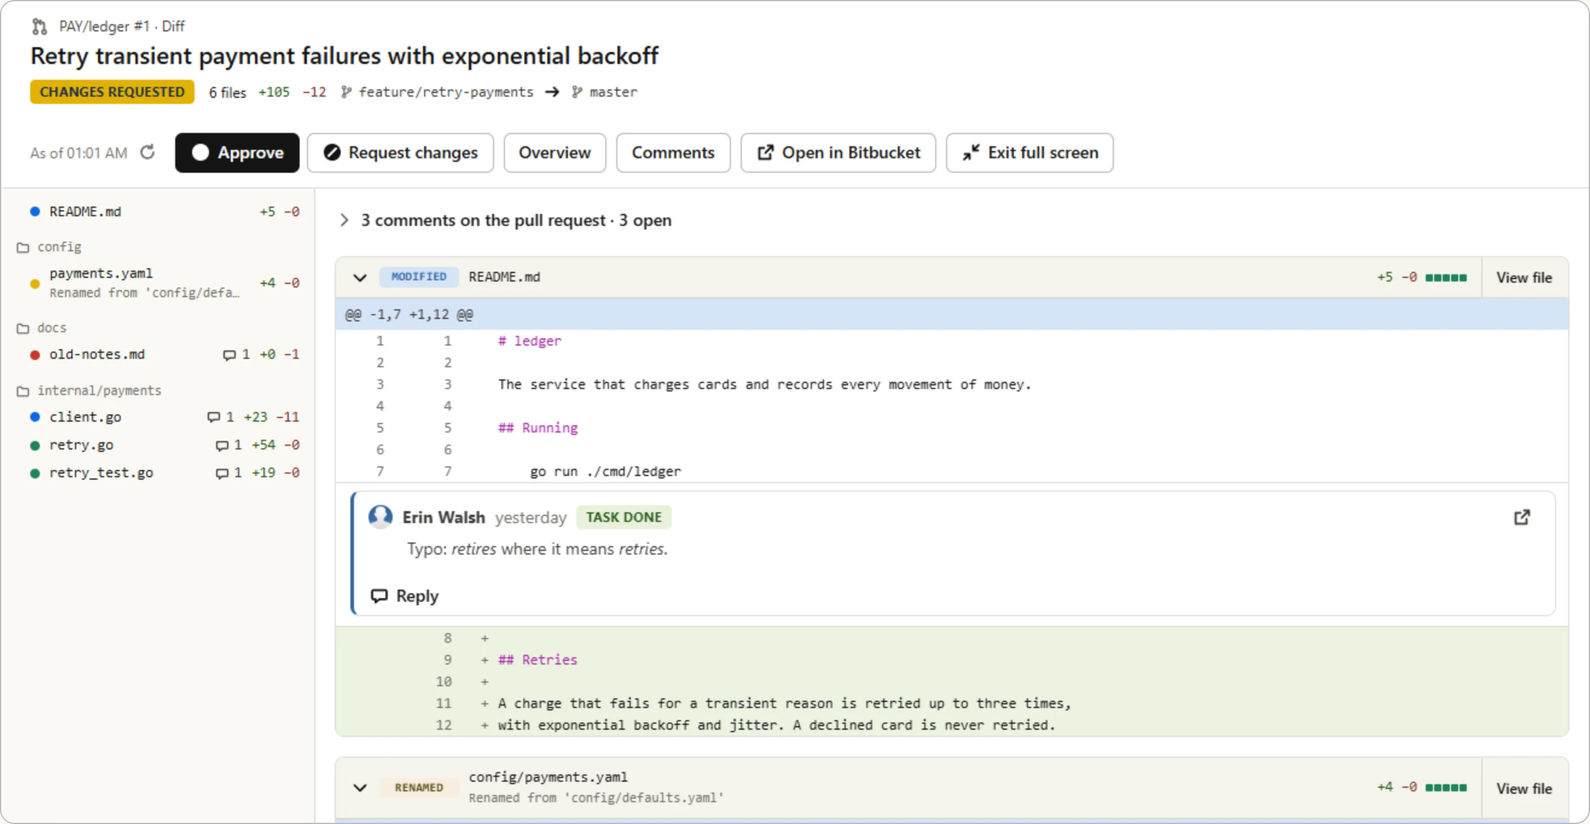
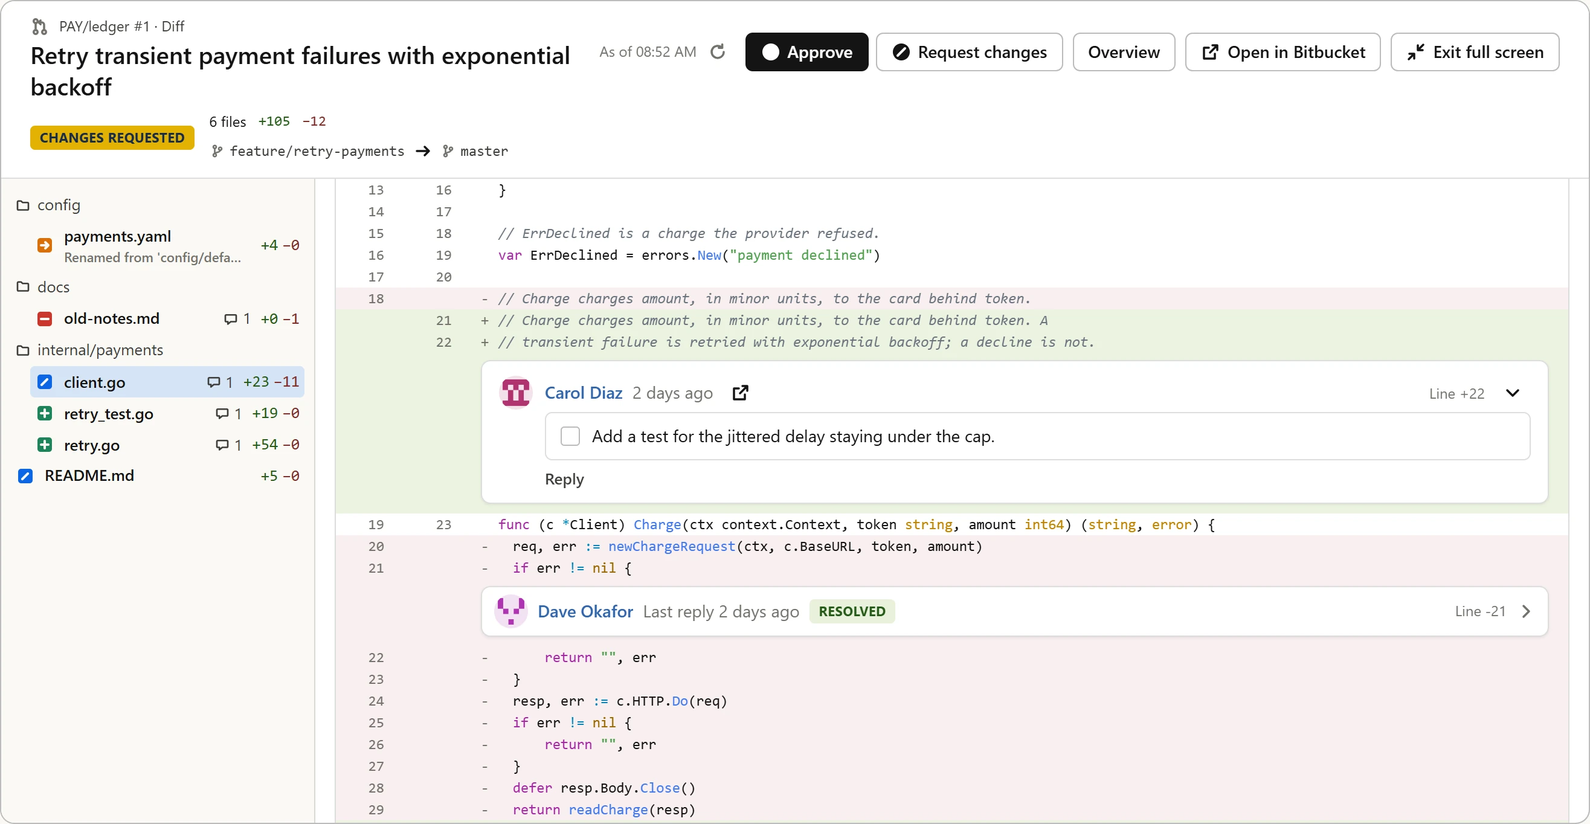
docs(mcp): show comments in the overview and the diff, as Bitbucket does
The guide, the release note and ADR-101 say where a pull request's
comments are now: in its overview's activity and on their lines in its
diff, each where Bitbucket's diff draws it, with the diff a file at a
time beside its tree. The Comments view and the file viewer are gone
from them, and their screenshots with them; the card, list, overview and
diff are shown as they are now. ADR-101 records why there is no view of
comments of their own, why a comment is not placed by its anchor, and
why there is no file viewer.

diff --git a/docs/site/ai-and-llms.md b/docs/site/ai-and-llms.md
@@ -64,47 +64,43 @@ nothing to turn on: the model calls the `show` tool once it has found what you
 asked about. A terminal client, such as Claude Code, shows the plain answer, and
 `--exclude show` turns views off.
 
-![A pull request card: its title, author and branches, who requested changes, a failed and a running build, an open task, and how many approvals and builds passed](assets/views/card-light.webp#only-light)
-![A pull request card: its title, author and branches, who requested changes, a failed and a running build, an open task, and how many approvals and builds passed](assets/views/card-dark.webp#only-dark)
+![A pull request card: its title, author and branches, who requested changes, a failed and a running build, a required build missing, two open tasks, and how many approvals and builds passed](assets/views/card-light.webp#only-light)
+![A pull request card: its title, author and branches, who requested changes, a failed and a running build, a required build missing, two open tasks, and how many approvals and builds passed](assets/views/card-dark.webp#only-dark)
 
 The card puts what asks something of someone on one line: who requested
 changes, a conflict, failed and running builds, required builds that have not
-run, open tasks. The counts under it
-are Bitbucket's, however many reviewers and builds there are. **Overview** opens
-the rest, fullscreen where the client has it and opened out in place where it
-does not: the description as Bitbucket formats it, the reviewers by their
-decision, the builds the target branch requires before it merges, every build
-by its state, and the comments and tasks. **Diff** and
-**Comments** open those in the same view, and **Back** returns to the card.
+run, open tasks. The counts under it are Bitbucket's, however many reviewers and
+builds there are. **Overview** opens the rest, fullscreen where the client has
+it and opened out in place where it does not: the description as Bitbucket
+formats it, and under it the activity as Bitbucket's overview lists it, newest
+first: who approved or requested changes, pushed or merged, and every comment,
+one on a line with the lines of the diff it is on. Beside them are the
+reviewers by their decision, the builds the target branch requires before it
+merges, and every build by its state. Reply to a comment, or comment on the pull
+request, where it is; the count of open tasks opens the overview at them.
 **Approve** and **Request changes**, in the overview and over the diff, review
 the pull request once you confirm it in your client.
 
-![A pull request's overview: its description beside Approve and Request changes, the reviewers grouped by decision, and its builds grouped by state](assets/views/overview-light.webp#only-light)
-![A pull request's overview: its description beside Approve and Request changes, the reviewers grouped by decision, and its builds grouped by state](assets/views/overview-dark.webp#only-dark)
+![A pull request's overview: its description and activity, a comment on a line shown among the lines of the diff it is on, beside Approve and Request changes, the reviewers by decision and the builds by state](assets/views/overview-light.webp#only-light)
+![A pull request's overview: its description and activity, a comment on a line shown among the lines of the diff it is on, beside Approve and Request changes, the reviewers by decision and the builds by state](assets/views/overview-dark.webp#only-dark)
 
 A list flags only what needs attention in each pull request: a request for
 changes, a draft, failed builds. A row opens its card in the same view.
 Fullscreen adds Bitbucket's dashboard columns and filters, and asks for the
 pull requests in another state or role.
 
-![A list of four pull requests, two of them with changes requested and a failed build, one a draft](assets/views/list-light.webp#only-light)
-![A list of four pull requests, two of them with changes requested and a failed build, one a draft](assets/views/list-dark.webp#only-dark)
+![A list of six pull requests: two with changes requested and a failed build, one declined, one merged, one a draft](assets/views/list-light.webp#only-light)
+![A list of six pull requests: two with changes requested and a failed build, one declined, one merged, one a draft](assets/views/list-dark.webp#only-dark)
 
-A diff comes file by file, with Bitbucket's change lozenges and the files in
-their directories, the code highlighted, and each comment on the line it was
-written on. Select lines
-to add them to the chat, to ask about them, or to comment on them. A file too
-large to carry is named, with a link to its diff in Bitbucket.
+**Diff** opens the pull request's diff as Bitbucket's diff page has it: the
+file tree, and beside it one file at a time, the code highlighted and each
+comment on the line Bitbucket draws it on, a resolved one folded to a line.
+Select lines to add them to the chat, to ask about them, or to comment on them.
+A file too large to carry is named, with a link to its diff in Bitbucket.
+**Back** returns to where you were.
 
-![A pull request's diff: the changed files by directory, each with its open comments counted, beside the highlighted changes, a comment on the line it was written on, and Approve and Request changes over it](assets/views/diff-light.webp#only-light)
-![A pull request's diff: the changed files by directory, each with its open comments counted, beside the highlighted changes, a comment on the line it was written on, and Approve and Request changes over it](assets/views/diff-dark.webp#only-dark)
-
-The comment threads come where they are: those on the pull request first, then
-each file's, the open ones out and the resolved folded to their count. A thread
-on a changed line comes with the lines of the diff that lead to it, and a long
-discussion folds its earlier replies. The card lists what is still open in
-the same order, under a heading for each place. Reply to a thread, or comment
-on the pull request, from the view itself.
+![A pull request's diff: the file tree with each file's open comments counted, beside one file's highlighted changes, a task on the line it was written on and a resolved thread folded to a line](assets/views/diff-light.webp#only-light)
+![A pull request's diff: the file tree with each file's open comments counted, beside one file's highlighted changes, a task on the line it was written on and a resolved thread folded to a line](assets/views/diff-dark.webp#only-dark)
 
 Ask for a pull request to be opened, and the agent can hand you its draft as a
 form: the branches, the title and description it wrote, the reviewers it
@@ -114,17 +110,6 @@ request's title, description and draft state are edited the same way.
 
 ![A pull request form: the source and target branches, the title and the description the agent drafted, a reviewer field, the draft box, and Create pull request](assets/views/form-light.webp#only-light)
 ![A pull request form: the source and target branches, the title and the description the agent drafted, a reviewer field, the draft box, and Create pull request](assets/views/form-dark.webp#only-dark)
-
-A file you have no copy of, such as another repository's, is shown as what it
-is: highlighted code with line numbers, a picture fitted to the view or at its size, audio
-and video that play, an archive's listing. A long file comes a window at a
-time. In a diff, **View file** opens a changed file as the pull request has it.
-
-![A Go file shown as highlighted code with line numbers](assets/views/file-light.webp#only-light)
-![A Go file shown as highlighted code with line numbers](assets/views/file-dark.webp#only-dark)
-
-![A pull request's comment threads: tasks and comments on the pull request and on a file, each with Reply, under Add a comment](assets/views/threads-light.webp#only-light)
-![A pull request's comment threads: tasks and comments on the pull request and on a file, each with Reply, under Add a comment](assets/views/threads-dark.webp#only-dark)
 
 - A view carries what it draws. It renders again when you come back to the
   conversation, even without bb running, and it says when it was read.

diff --git a/docs/site/adr/101-mcp-server-adopts-mcp-apps.md b/docs/site/adr/101-mcp-server-adopts-mcp-apps.md
@@ -18,10 +18,10 @@ This page is generated from `docs/decisions/*.yaml` by `task docs:export-adr-mar
 ## Decision
 
 bb ai mcp serve adopts MCP Apps. In a client that renders them, the model can put what it found in front of the person as an interactive view instead of describing it; a client that renders none gets text as before.
-Views are kinds of one tool, show, which the model calls once it has what the person asked about. The data tools carry no view. A kind is offered while the tool whose answer it shows is exposed, and a client that renders no views is told nothing was shown, and nothing is fetched for it. A diff or a file is for what the person cannot open in their own editor.
+Views are kinds of one tool, show, which the model calls once it has what the person asked about. The data tools carry no view. A kind is offered while the tool whose answer it shows is exposed, and a client that renders no views is told nothing was shown, and nothing is fetched for it. A diff is for what the person cannot open in their own editor.
 One page, ui://bb/view, draws every view: plain JavaScript and CSS embedded in the binary. It holds no Bitbucket data, stays out of resources/list, may be cached by anyone, and declares no network domains. What a view draws travels in the result's _meta beside a short text for the model, avatars included, which bb fetches with its own credentials. Text from Bitbucket is never parsed as HTML: the page builds elements with the DOM API, draws Markdown with a parser of its own, and opens a link only through the host, only to a web address. Code is highlighted in bb, which sends each line's token classes, and the page colours them; highlighting stops at a deadline, and a lexer that cannot be stopped midway, such as those for the code inside templates, is used only when the operator asks, and no answer waits for it. It uses Bitbucket's own words and icon metaphors, and the host's theme.
-A count in a view is Bitbucket's count of the whole, and a view that lists fewer says so. What needs the person is never behind a click. A card lists the builds its target branch requires as Bitbucket's merge check decides them, from the builds listing Bitbucket's own pull request page reads, since the public build endpoints do not say which required key a build reports under; where bb cannot tell as the check would, the card says nothing about requirements. Inline, a view keeps one shape and grows a step at a time when the person asks; fullscreen shows everything the result carries. A view says when its data was read.
-A view keeps itself current while it is on screen. It draws what its result carries, then calls refresh_view, a read-only tool offered to views and not to the model, with the show call it answers and a fingerprint of what it draws; the answer carries the data only when it has changed. It asks often while something is in motion, such as a running build, less often the longer nothing changes, never off screen or after teardown, and not again once a pull request is closed and still. Status changes in place; a changed diff is offered rather than swapped under the person's reading. A view that changed tells the model, through ui/update-model-context. A form, which holds what the person writes, and a file, read a window at a time, are not read again by themselves.
+A count in a view is Bitbucket's count of the whole, and a view that lists fewer says so. What needs the person is never behind a click. A card lists the builds its target branch requires as Bitbucket's merge check decides them, from the builds listing Bitbucket's own pull request page reads, since the public build endpoints do not say which required key a build reports under; where bb cannot tell as the check would, the card says nothing about requirements. A pull request's comments are where Bitbucket has them: in its overview's activity, newest first, and on their lines in its diff, each where Bitbucket's diff with comments draws it; fullscreen, the diff is Bitbucket's diff page, one file at a time. Inline, a view keeps one shape and grows a step at a time when the person asks; fullscreen shows everything the result carries. A view says when its data was read.
+A view keeps itself current while it is on screen. It draws what its result carries, then calls refresh_view, a read-only tool offered to views and not to the model, with the show call it answers and a fingerprint of what it draws; the answer carries the data only when it has changed. It asks often while something is in motion, such as a running build, less often the longer nothing changes, never off screen or after teardown, and not again once a pull request is closed and still. Status changes in place; a changed diff is offered rather than swapped under the person's reading. A view that changed tells the model, through ui/update-model-context. A form, which holds what the person writes, is not read again by itself.
 A view opens what else the person asks for in place, through refresh_view: a pull request's other views, a list's pull requests, a list in another state; it goes back, and tells the model what the person opened. What the person does in a view goes through the model's own tool, so the scope, the audit trail and the confirmation of a tool that asks apply as to the model's call. A view offers only the kinds and tools the server exposes. The pull request form is a kind like the others: the model drafts, the person submits, and nothing is created before.
 Tools only views call, refresh_view and the form's suggest_form_values, are read-only, offered to views and not to the model, and go with show whatever --tools names; --exclude withholds them.
 
@@ -41,3 +41,6 @@ A person takes in a pull request faster laid out as Bitbucket lays it out than f
 - `Fetch what a view draws from the view once it renders, or more of it as the person scrolls`: A re-rendered conversation would show nothing without bb running, and a view would wait on a tool call before it drew.
 - `Refresh a view by calling show again`: Every refresh would carry the whole payload, changed or not, and show is the model's tool.
 - `Draw everything a result carries, inline`: A list or a diff of a thousand rows buries the conversation, and a host scrolls a view it caps inside the chat.
+- `A view of a pull request's comments of its own`: Bitbucket has none, and a person reads a comment where it was written: gathered in one view apart from the diff and the activity, every thread at once read as a mess.
+- `Place a diff's comments by their anchors`: A comment written on the left of a side-by-side diff names its line as the file was, so on an unchanged line it lands on another line when read as the file is.
+- `A file viewer`: In a coding harness the model quotes the code that matters, highlighted, and the person has an editor; another repository's file is a click away in Bitbucket. Pictures and media were left, too rarely asked for to earn a kind of view.

diff --git a/docs/release-notes/v5.0.0.md b/docs/release-notes/v5.0.0.md
@@ -93,11 +93,11 @@ If you consume `bb` inside CI/CD pipelines, shell scripts, or AI agent toolchain
 
    Or through Group Policy, as the registry value set to `1` under `HKLM\Software\Policies\bb`.
 
-8. **See a pull request, a list, a diff or its comment threads as a view in your MCP client ([ADR-101](https://vriesdemichael.github.io/bitbucket-data-center-cli/latest/adr/101-mcp-server-adopts-mcp-apps/), [#686](https://github.com/vriesdemichael/bitbucket-data-center-cli/issues/686)):**
+8. **See a pull request, a list or a diff as a view in your MCP client ([ADR-101](https://vriesdemichael.github.io/bitbucket-data-center-cli/latest/adr/101-mcp-server-adopts-mcp-apps/), [#686](https://github.com/vriesdemichael/bitbucket-data-center-cli/issues/686)):**
 
-   In clients that render MCP Apps, such as Claude Desktop, VS Code and Goose, the AI can now put what it found in front of you instead of describing it: a pull request with its reviewers' avatars and decisions, its builds and the ones its target branch requires, open tasks, comments and formatted description; a list of pull requests; the diff, file by file and highlighted; or its comment threads, where they are, each with the lines of the diff it is on. It looks and reads like Bitbucket, and anything you click opens there.
+   In clients that render MCP Apps, such as Claude Desktop, VS Code and Goose, the AI can now put what it found in front of you instead of describing it: a pull request with its reviewers' avatars and decisions, its builds and the ones its target branch requires, open tasks, its formatted description and its activity, comments included; a list of pull requests; or its diff, a file at a time, highlighted, with each comment on its line. It looks and reads like Bitbucket, and anything you click opens there.
 
-   Ask for PAYMENTS/ledger#42 and the answer comes with its card; open the card for the full overview, its diff or its comments. In the diff, select lines to add them to the chat, to ask about them or to comment on them; reply to a thread, and approve or request changes, without leaving the conversation. Ask the AI to open a pull request and it can hand you its draft as a form to finish and submit. A file from a repository you have no copy of shows as code, a picture, a player or a listing. A view carries what it shows, so it still renders when you come back to the conversation, even without bb running, and it says when it was read. While it is on screen it keeps itself current: watch a build finish or a comment arrive without asking again, and the AI is told what changed. Terminal agents such as Claude Code show the usual text.
+   Ask for PAYMENTS/ledger#42 and the answer comes with its card; open the card for the full overview and its activity, or its diff. In the diff, select lines to add them to the chat, to ask about them or to comment on them; reply to a comment, and approve or request changes, without leaving the conversation. Ask the AI to open a pull request and it can hand you its draft as a form to finish and submit. A view carries what it shows, so it still renders when you come back to the conversation, even without bb running, and it says when it was read. While it is on screen it keeps itself current: watch a build finish or a comment arrive without asking again, and the AI is told what changed. Terminal agents such as Claude Code show the usual text.
 
    * For administrators: a view has no network access; bb fetches the avatars with its own credentials and puts them in the result. `--exclude show` turns views off. A view keeps current by calling `refresh_view`, and the form suggests values through `suggest_form_values`: read-only tools only views are offered, each call recorded in the audit log like any other; `--exclude refresh_view` keeps views as they were drawn. What you do in a view goes through the AI's own tools, with their confirmations. Of Svelte, ERB, PHTML, Go HTML and Jinja templates only the markup is highlighted; `--highlight-templates` highlights the code in them too, with lexers a crafted file can keep busy for seconds, though no view waits for them.
 

diff --git a/docs/site/reference/mcp-tools.md b/docs/site/reference/mcp-tools.md
@@ -38,7 +38,7 @@ The [MCP server guide](../ai-and-llms.md#the-mcp-server) wires it into a client,
 | `resolve_ref` | read-only | never | Resolve a branch or tag name to its tip commit SHA. Use as a cheap existence check before cloning or creating a pull request. |
 | `search_repositories` | read-only | never | Search for repositories by name, optionally filtered by project. Returns project key, slug, and display name. |
 | `set_build_status` | writes | always | Report a build/CI status for a commit back to Bitbucket. Use this when running CI pipelines that should surface results in PR views. Asks the person to confirm in the client before it runs. |
-| `show` | read-only | never | Show the person a pull request, a list of pull requests, a pull request's diff or its comment threads as an interactive view, in clients that display MCP Apps views, or a pull request form for them to finish and submit. Call it once, after you have what you need and before your answer, for what the person should see; use the other tools to find it. kinds pull_request, diff and threads take project, repo and id; kind pull_requests takes the filters list_pull_requests takes. Kind pull_request_form takes project, repo, from_ref and what you drafted (title, description, to_ref, reviewers, draft), or an id to edit that pull request; nothing is created or changed until the person submits it. Kind file takes project, repo, path and at, and shows code, a picture, audio, a video or an archive's listing. A diff or a file is for what the person cannot open in their own editor, such as another repository's. In a client that displays no views, it shows nothing and says so. |
+| `show` | read-only | never | Show the person a pull request, a list of pull requests or a pull request's diff as an interactive view, in clients that display MCP Apps views, or a pull request form for them to finish and submit. Call it once, after you have what you need and before your answer, for what the person should see; use the other tools to find it. Kinds pull_request and diff take project, repo and id; a pull request's overview has its comments and activity, and its diff the comments on its lines. Kind pull_requests takes the filters list_pull_requests takes. Kind pull_request_form takes project, repo, from_ref and what you drafted (title, description, to_ref, reviewers, draft), or an id to edit that pull request; nothing is created or changed until the person submits it. A diff is for changes the person cannot open in their own editor, such as another repository's. In a client that displays no views, it shows nothing and says so. |
 | `submit_pr_review` | writes | always | Set review status on a pull request: approve, unapprove, or request changes (needs_work). Asks the person to confirm in the client before it runs. |
 | `suggest_form_values` | read-only | never | Called by bb's pull request form, not by the model: suggests the repository's branches, or the people who can read it as reviewers, matching what the person typed. |
 | `update_pull_request` | writes | when-setting-draft | Update a pull request's title, description, or draft state. Use draft=false to mark a draft pull request ready for review. Requires the current version from get_pull_request for optimistic locking; a stale version is rejected rather than overwriting someone else's edit. Setting draft asks the person to confirm in the client first. |

diff --git a/docs/site/index.md b/docs/site/index.md
@@ -45,11 +45,11 @@ hide:
 	<div>
 		<p class="bb-card-kicker">In your agent</p>
 		<h2><a href="ai-and-llms/#views-in-your-agent">See the pull request, not a description of it</a></h2>
-		<p>Ask an agent about a pull request, and in a client that renders MCP Apps, such as Claude Desktop, VS Code or Goose, the MCP server <code>bb</code> ships answers with the pull request itself, right in the chat. Lists of pull requests, diffs and comment threads too.</p>
+		<p>Ask an agent about a pull request, and in a client that renders MCP Apps, such as Claude Desktop, VS Code or Goose, the MCP server <code>bb</code> ships answers with the pull request itself, right in the chat. Lists of pull requests and diffs too.</p>
 	</div>
 	<div>
-		<img src="assets/views/card-light.webp#only-light" alt="A pull request card in the chat: its title, author and branches, who requested changes, a failed and a running build, an open task, and how many approvals and builds passed">
-		<img src="assets/views/card-dark.webp#only-dark" alt="A pull request card in the chat: its title, author and branches, who requested changes, a failed and a running build, an open task, and how many approvals and builds passed">
+		<img src="assets/views/card-light.webp#only-light" alt="A pull request card in the chat: its title, author and branches, who requested changes, a failed and a running build, a required build missing, two open tasks, and how many approvals and builds passed">
+		<img src="assets/views/card-dark.webp#only-dark" alt="A pull request card in the chat: its title, author and branches, who requested changes, a failed and a running build, a required build missing, two open tasks, and how many approvals and builds passed">
 	</div>
 </section>
 

diff --git a/README.md b/README.md
@@ -18,7 +18,7 @@ request itself, right in the chat:
 
 <picture>
   <source media="(prefers-color-scheme: dark)" srcset="docs/site/assets/views/card-dark.webp">
-  <img alt="A pull request card in the chat: its title, author and branches, who requested changes, a failed and a running build, an open task, and how many approvals and builds passed" src="docs/site/assets/views/card-light.webp" width="632">
+  <img alt="A pull request card in the chat: its title, author and branches, who requested changes, a failed and a running build, a required build missing, two open tasks, and how many approvals and builds passed" src="docs/site/assets/views/card-light.webp" width="632">
 </picture>
 
 [Views in your agent](https://vriesdemichael.github.io/bitbucket-data-center-cli/latest/ai-and-llms/#views-in-your-agent) shows
